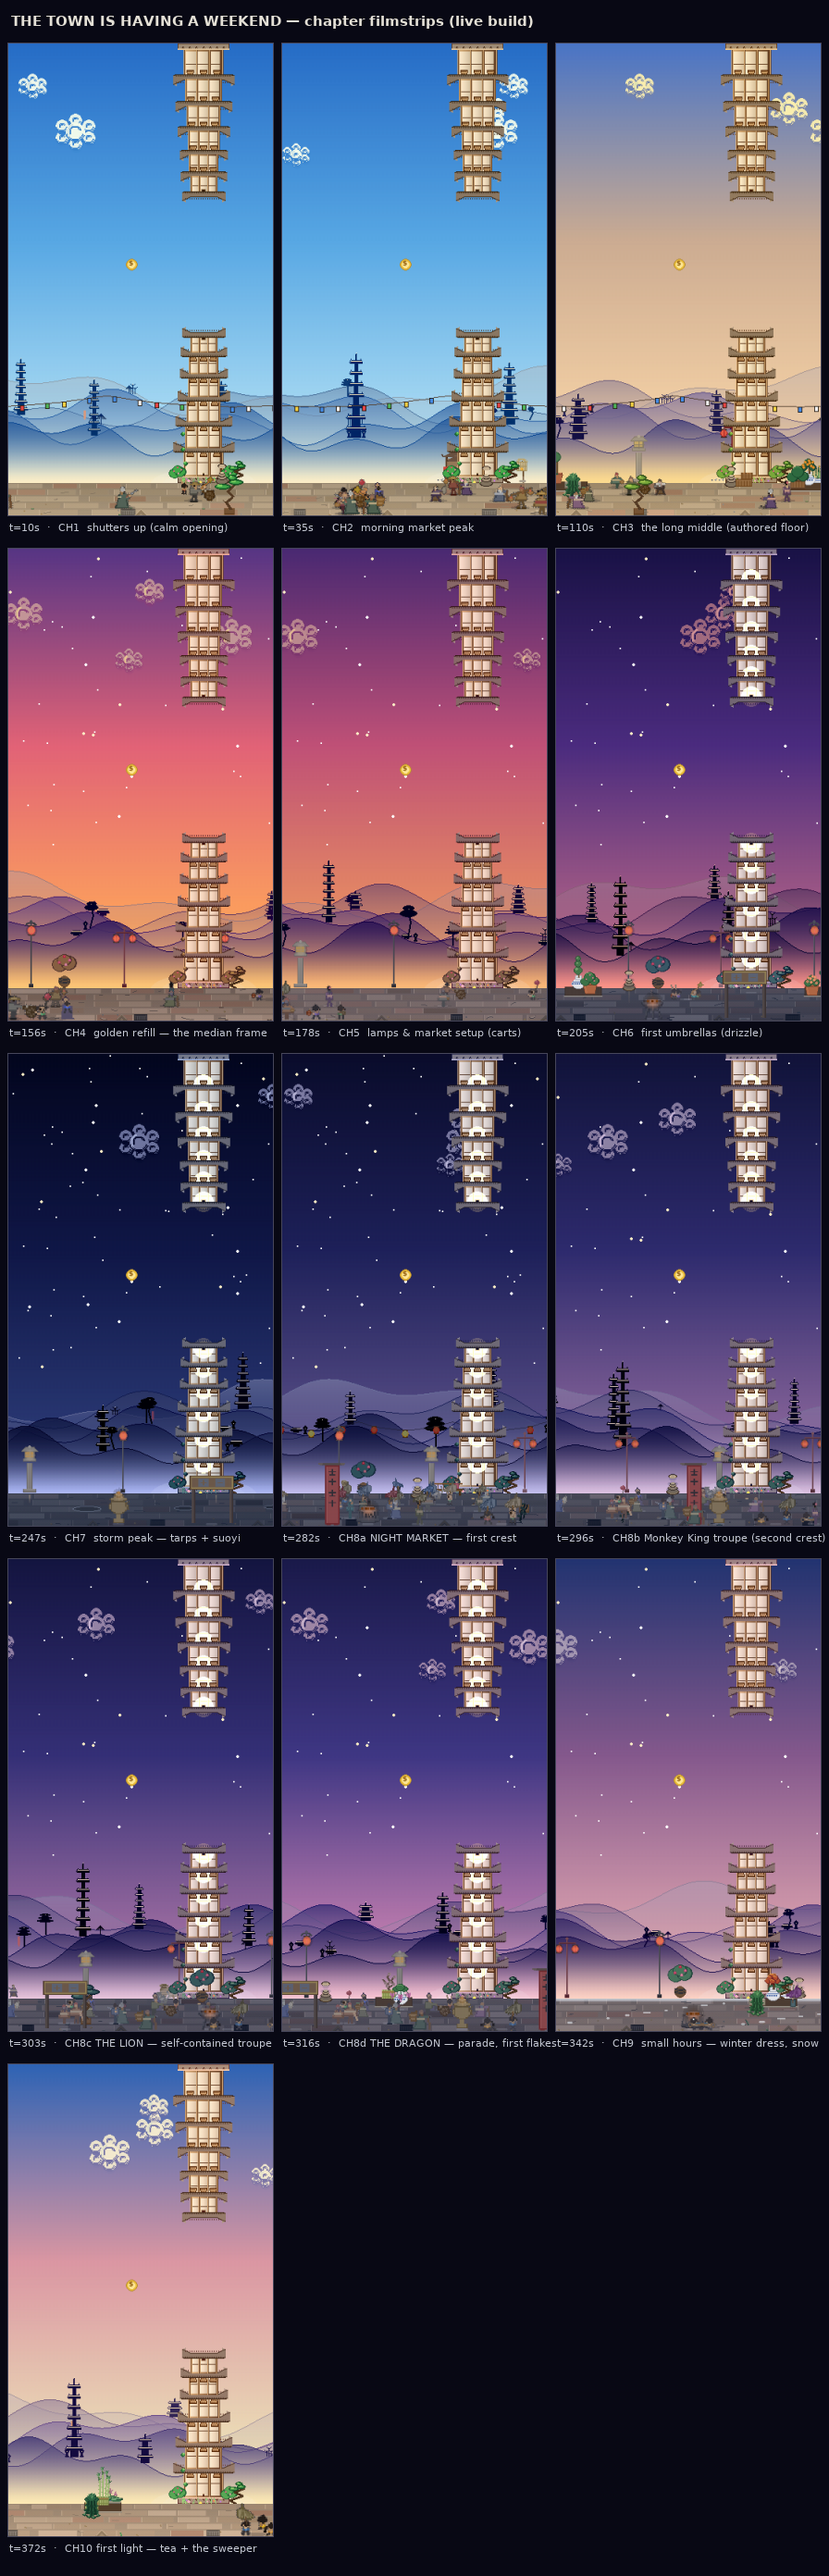
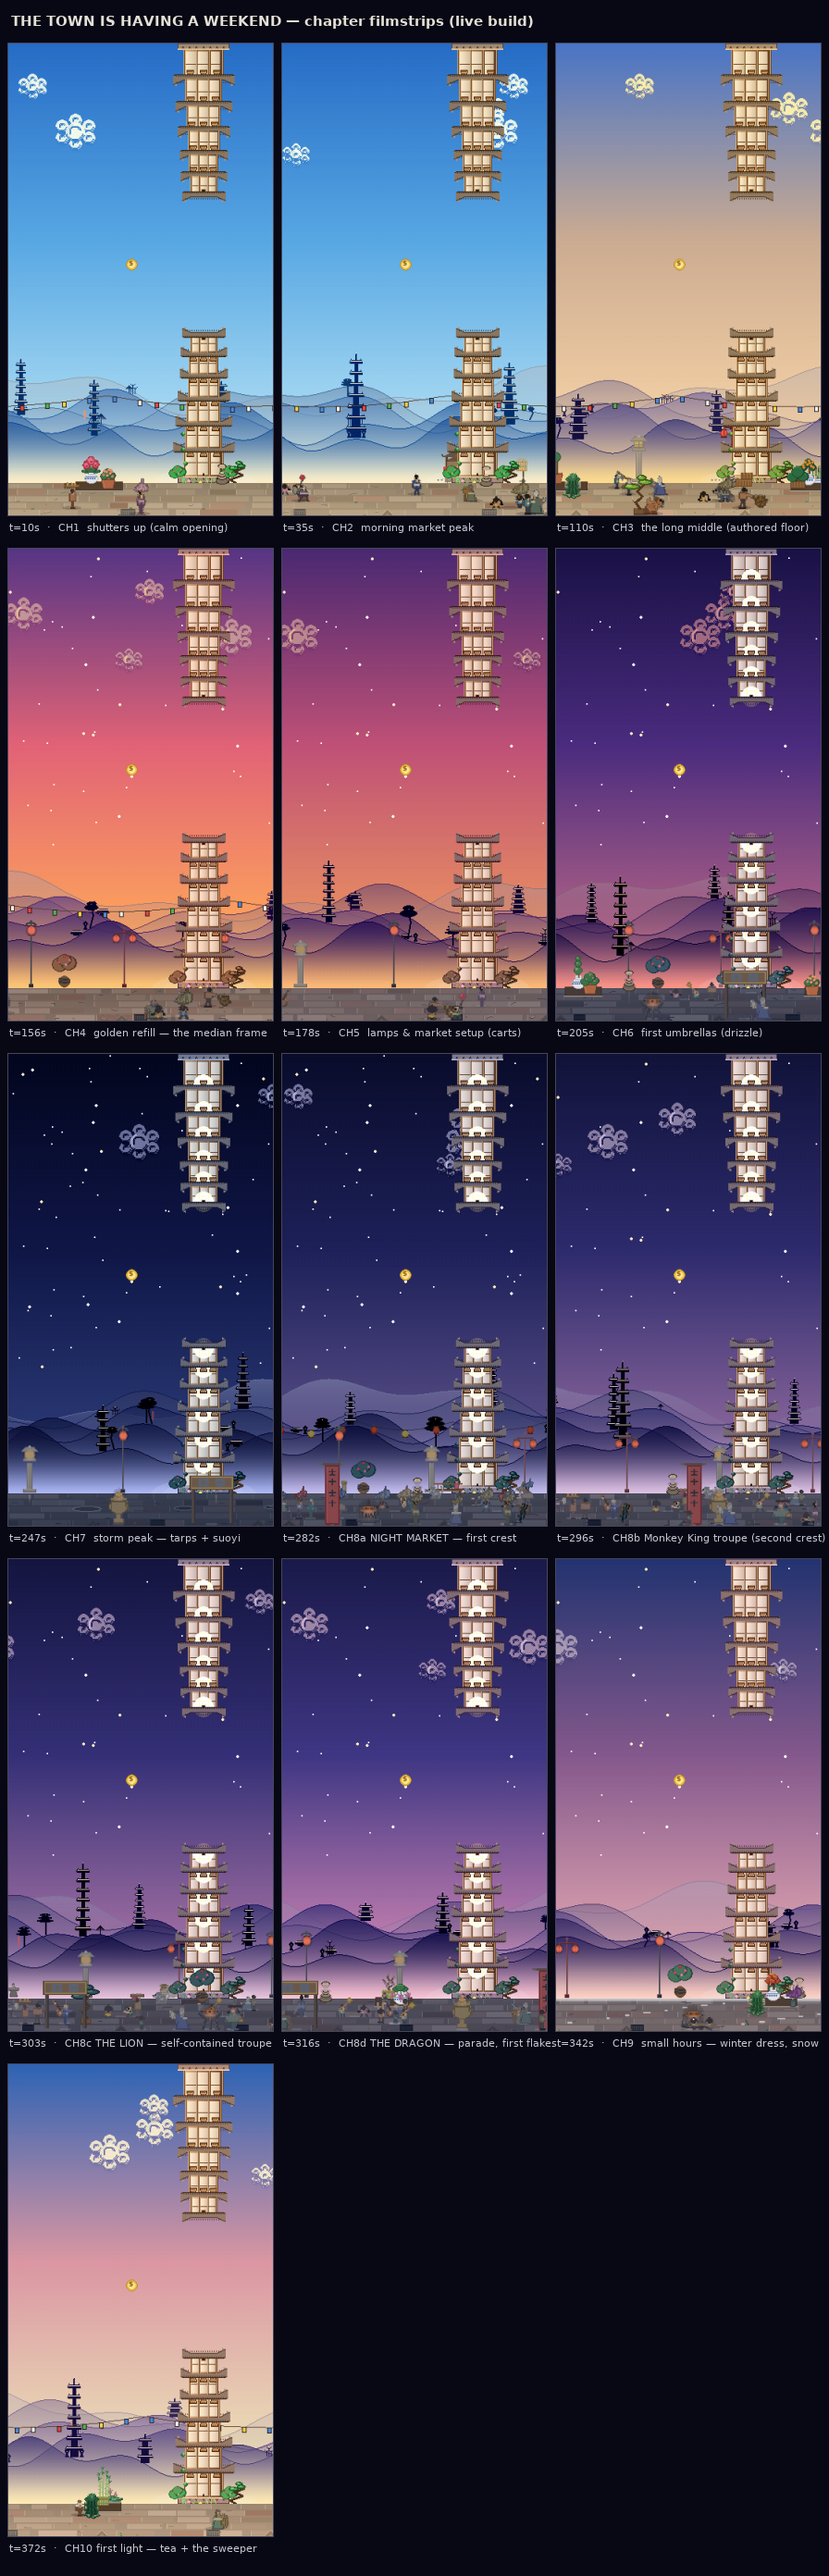
Keep the prayer flags up, and slow the street to a stroll
FLAGS. The row was not flickering strand by strand — over three minutes of
real play no pillar pair ever changed state mid-traversal. It was coverage:
80.5% of the daytime window had no flags at all, in bursts separated by gaps
of up to 33s. Two causes. A pillar lives only from x=420 to x=-66, a 486px
window against ~341px spacing, so 61% of frames have fewer than two alive and
one pillar cannot hold a rope up; anchoring to live pillars alone was never
going to be continuous. Then the quiet-block gate threw away 48% of the pairs
that did form — fine on the old 149px lattice with two spans on screen, but
all-or-nothing when one span covers the whole street.

So anchors are now remembered past their pillar's cull, in a world-x map
pruned once a slot is too far left for any rope to reach it. World x is
invariant against bg_scroll, so a remembered anchor still lands correctly —
the same trick CelebrationBunting already uses. The quiet-block gate is gone
from this row; the lantern garland keeps it, still on its own lattice.

The rope also stopped breathing. Its length came from the on-screen span,
which twitches a pixel every frame because the two pillars' int() truncations
tick on different frames; it now comes from the exact world spacing. A pillar
can re-register a pixel either way as its world x rounds, filing one pillar
under two keys and inventing a 1px neighbour, so new keys snap onto an
existing one within 2px, and a minimum span rejects any degenerate pair.
[…]

diff --git a/game/foreground_promenade.py b/game/foreground_promenade.py
@@ -36,8 +36,8 @@ from game import foreground_props as sp
 from game import foreground_weekend as _wk
 from game import weekend_kit as _wkit
 from game import biome as _biome
-from game.config import (W, H, WEATHER_CROWD_RAIN_MIN, WEATHER_CROWD_SNOW_MIN,
-                         WEATHER_UMBRELLA_RAIN_AT)
+from game.config import (W, H, PIPE_W, WEATHER_CROWD_RAIN_MIN,
+                         WEATHER_CROWD_SNOW_MIN, WEATHER_UMBRELLA_RAIN_AT)
 from game.weather import rain_intensity, storm_intensity, wind_intensity
 from game.pillar_variants import draw_prayer_flags
 from game import foreground_zbuffer as _zbuf
@@ -1921,6 +1921,7 @@ def reset_run():
     global _CALM_UNTIL
     _CALM_UNTIL = -1.0
     _SIG.clear()
+    _BUNTING_ANCHORS.clear()
 
 
 def street_calm(t):
@@ -2042,6 +2043,14 @@ def _roster_for(phase):
 # 340-343px in steady state and 431 at the top of the newbie ramp; the gaps
 # this excludes are the phantom-relief stretches, which run ~1366px.
 _BUNTING_MAX_SPAN = 520
+# Below this a "span" is two anchors for what is really one pillar, not a gap
+# worth stringing; the tightest real spacing is the 72px clown warren.
+_BUNTING_MIN_SPAN = 40
+
+# {pillar world x -> its exact screen x while alive}. Outlives the pillars so a
+# rope always has a left-hand anchor; pruned once a slot is far enough left
+# that no rope reaching it could still be on screen.
+_BUNTING_ANCHORS: dict = {}
 
 
 def _overhead_busy(world_x, phase):
@@ -2069,26 +2078,51 @@ def _dressing(surf, w, scroll, pal, phase):
     # scroll axis exactly (both at mult 1.0 off bg_scroll), so a rope tied to
     # them never drifts. Ends sit level now: two pagodas are the same height, so
     # the old 2px tilt — an artifact of arbitrary lattice endpoints — is gone.
-    anchors = signal('pillar_anchors', ())
-    for (idx, ax), (_, bx) in zip(anchors, anchors[1:]):
-        span = bx - ax
+    # Anchors are REMEMBERED past their pillar's cull. A pillar lives only from
+    # x=420 to x=-66 — a 486px window against ~341px spacing — so 61% of frames
+    # have fewer than two alive at once, and one pillar cannot hold a rope up.
+    # Holding each anchor until its rope has left the screen is what keeps the
+    # row continuous; world x is invariant against bg_scroll, so a remembered
+    # anchor still maps to the right place long after its pillar is gone.
+    live_sx = {}
+    for wx, sx in signal('pillar_anchors', ()):
+        # A pillar's world x can round a pixel either way between frames, which
+        # would file the SAME pillar under two keys — a phantom 1px neighbour
+        # that makes its rope's length twitch. Snap onto the existing key.
+        if wx not in _BUNTING_ANCHORS:
+            near = next((k for k in _BUNTING_ANCHORS if abs(k - wx) <= 2), None)
+            if near is not None:
+                wx = near
+        _BUNTING_ANCHORS[wx] = sx
+        live_sx[wx] = sx
+    for wx in [k for k in _BUNTING_ANCHORS if k - scroll < -(_BUNTING_MAX_SPAN + 60)]:
+        del _BUNTING_ANCHORS[wx]
+    keys = sorted(_BUNTING_ANCHORS)
+    for wa, wb in zip(keys, keys[1:]):
+        span = wb - wa
         # Too far apart to string: phantom-relief stretches (clown gauntlet,
         # cycle finale) leave ~1366px between VISIBLE pillars. Skipping leaves
         # the rope ending at the previous pagoda rather than crossing the void.
-        if not 0 < span <= _BUNTING_MAX_SPAN:
+        if not _BUNTING_MIN_SPAN <= span <= _BUNTING_MAX_SPAN:
             continue
-        # Pillars are tracked well past both screen edges, so ~5% of pairs are
-        # wholly off-view; the lattice this replaced culled for free.
+        # A live pillar hands over the exact integer it blits at, so the rope
+        # end is pixel-locked to it; a remembered one is off-screen left, where
+        # a derived position is indistinguishable.
+        ax = live_sx.get(wa)
+        if ax is None:
+            ax = int(wa - scroll) + PIPE_W // 2
+        bx = ax + span
         if bx < -10 or ax > w + 10:
             continue
-        if not sp._slot_latch(('bunting',), idx, lambda ax=ax, span=span: (
-                bunting_win and _overhead_busy(scroll + ax + span * 0.5, phase))):
+        if not sp._slot_latch(('bunting',), wa, lambda: bunting_win):
             continue
         # Flag pitch and rope dip track the span, so the 72px warren gauntlet
         # doesn't become solid cloth and a 341px street span doesn't read taut.
+        # Both come off the WORLD spacing, which is exact: deriving them from
+        # the on-screen span made the rope breathe a pixel every frame, because
+        # the two pillars' int() truncations tick on different frames.
         n = max(2, min(12, round(span / 30.0)))
-        draw_prayer_flags(surf, int(ax), GROUND_Y - 118,
-                          int(bx), GROUND_Y - 118, n=n,
+        draw_prayer_flags(surf, ax, GROUND_Y - 118, bx, GROUND_Y - 118, n=n,
                           sag=int(max(10.0, min(34.0, span * 0.09))))
     sp._latch_prune(('bunting',))
     # Exactly one hanging layer is possible at any hour: this window is the

diff --git a/game/sidewalk_crowd.py b/game/sidewalk_crowd.py
@@ -47,10 +47,13 @@ _LEAVE_STAGGER = 0.8      # seconds between departures when the street empties
 # Walk speeds, world px/s. Sign convention: <0 walks WITH the flow (nets faster
 # leftward on screen), >0 walks AGAINST it (upstream — still nets leftward, just
 # slower), 0 = standing (rides exactly world speed, i.e. planted).
-_PED_SPEED = (34.0, 66.0)
+# A stroll, not a commute: against a ~27px figure the old (34, 66) was
+# 1.3-2.4 body-heights a second — a run — and it slid the feet ~105px over the
+# ground per step of the (speed-independent) gait cycle.
+_PED_SPEED = (13.0, 26.0)
 # A stray ambles: the old (72, 140) dart made every dog re-cross the screen
 # several times, multiplying its perceived frequency well past its spawn share.
-_DOG_SPEED = (55.0, 100.0)
+_DOG_SPEED = (34.0, 62.0)
 
 
 class _Ent:
@@ -198,7 +201,7 @@ class SidewalkCrowd:
             # figure must stay pixel-locked to the paving (the planted
             # invariant), so the drift gates on the walk itself.
             if abs(e.walk_vel) > 1.0:
-                e.world_x -= speed * sdt * (0.0614, 0.092, 0.1227, 0.15)[
+                e.world_x -= speed * sdt * (0.031, 0.046, 0.061, 0.075)[
                     min(3, int(e.depth * 4.0))]
             e.gait += _GAIT_RATE[e.kind] * sdt
             if e.walk_vel < -1.0:
@@ -267,7 +270,7 @@ class SidewalkCrowd:
                 for e in self.near:
                     if e.kind != "dog":
                         e.wave = max(e.wave, 0.5)
-                        if e.state == "walk" and abs(e.walk_vel) > 20.0:
+                        if e.state == "walk" and abs(e.walk_vel) > 8.0:
                             e.walk_vel *= 0.5   # slow to see the flyer through
         # Departure choreography: when the street empties (a storm building, the
         # market closing), the surplus figures don't fade — one at a time, on a
@@ -277,7 +280,7 @@ class SidewalkCrowd:
             for e in self.near:
                 if e.state not in ("leaving", "dart", "watch_parade"):
                     e.state = "leaving"
-                    e.walk_vel = -random.uniform(66.0, 92.0)
+                    e.walk_vel = -random.uniform(30.0, 46.0)
                     e.facing = -1
                     e.timer = 1e9
                     self._leave_cd = _LEAVE_STAGGER
